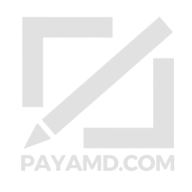
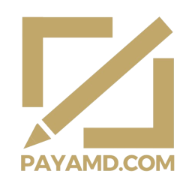
feat(styles): add color

diff --git a/src/lib/components/Sections/Title/index.tsx b/src/lib/components/Sections/Title/index.tsx
@@ -1,32 +1,41 @@
-import { motion, useWillChange } from "framer-motion";
+import { motion, useScroll, useTransform, useWillChange } from "framer-motion";
 import ParallaxText from "../../motion/ParallaxText";
 import { portfolio } from "./data";
 import HoverLink from "../../motion/View/HoverLink";
+import Logo from "../../motion/Menu/Logo";
+import { useRef } from "react";
+import { HiOutlineArrowLongDown } from "react-icons/hi2";
 
 const Title = () => {
   const willChange = useWillChange();
+  const ref = useRef(null);
+
+  const { scrollY } = useScroll({ target: ref });
+  const width = useTransform(scrollY, [0, 200], ["100vw", "45vw"]);
 
   return (
     <motion.section
       id="home"
       layoutScroll
+      ref={ref}
       style={{
         willChange,
         overflow: "hidden",
       }}
     >
       <motion.div
-        className="third"
+        className="second"
         style={{
           willChange,
+          width,
           backgroundImage: `url(${portfolio.image2})`,
           backgroundRepeat: "no-repeat",
-          backgroundSize: "contain",
+          backgroundSize: "auto",
           backgroundPosition: "right",
           mixBlendMode: "difference",
+          transformOrigin: "right center",
           zIndex: "-1",
           height: "100vh",
-          width: "45vw",
           minWidth: "400px",
           right: "0",
           bottom: "0",
@@ -61,13 +70,42 @@ const Title = () => {
           <div
             style={{
               fontSize: "0.65em",
-              // display: "inline-grid"
             }}
           >
             <HoverLink title="01 Who I am" url="#about" />
             <HoverLink title="02 What I do" url="#services" />
           </div>
         </div>
+        <motion.div
+          style={{
+            position: "absolute",
+            bottom: "3em",
+            margin: "auto",
+            left: "50vw",
+            textAlign: "center",
+          }}
+        >
+          <HiOutlineArrowLongDown />
+        </motion.div>
+        <motion.div
+          layout
+          initial={{ opacity: 0 }}
+          animate={{ opacity: 1, zIndex: 200 }}
+          transition={{
+            duration: 2,
+            delay: 15,
+            ease: "easeIn",
+          }}
+          style={{
+            willChange,
+            position: "absolute",
+            width: "100px",
+            top: "-20px",
+            left: "0",
+          }}
+        >
+          <Logo light />
+        </motion.div>
 
         <motion.div
           layout

diff --git a/src/lib/layout/Header.tsx b/src/lib/layout/Header.tsx
@@ -31,7 +31,7 @@ const Header = () => {
       }}
       style={{
         willChange,
-        background: "#111",
+        background: "#1e2125",
         position: "fixed",
         justifyContent: "center",
         display: "flex",
@@ -54,7 +54,6 @@ const Header = () => {
           willChange,
           alignSelf: "center",
           fontSize: "5em",
-          color: "#c2a76b",
         }}
       >
         {rounded}
@@ -73,7 +72,7 @@ const Header = () => {
           height: "20px",
           width: `1%`,
           scaleX: rounded,
-          background: "#c2a76b",
+          background: "#f4f4f2",
           transformOrigin: "0%",
           position: "fixed",
           left: "0",
@@ -81,7 +80,7 @@ const Header = () => {
         }}
       />
       <motion.div
-        className="third"
+        className="second"
         initial={{ scaleY: 0 }}
         animate={{
           scaleY: 1,
@@ -92,15 +91,15 @@ const Header = () => {
         style={{
           willChange,
           height: "100vh",
-          width: "45vw",
-          transformOrigin: "0%",
+          width: "50vw",
+          transformOrigin: "top center",
           position: "fixed",
           right: "0",
           top: "0",
         }}
       />
       <motion.div
-        className="third"
+        className="second"
         initial={{ scaleX: 0 }}
         animate={{
           scaleX: 1,
@@ -111,11 +110,11 @@ const Header = () => {
         style={{
           willChange,
           height: "100vh",
-          width: "55vw",
-          transformOrigin: "0%",
+          width: "50vw",
+          transformOrigin: "bottom center",
           position: "fixed",
           left: "0",
-          top: "0",
+          bottom: "0",
         }}
       />
       <motion.div
@@ -129,6 +128,7 @@ const Header = () => {
           ease: "circOut",
         }}
         style={{
+          willChange,
           position: "fixed",
           alignSelf: "center",
           textAlign: "center",

diff --git a/src/lib/components/Sections/Resume/index.tsx b/src/lib/components/Sections/Resume/index.tsx
@@ -13,6 +13,7 @@ import Skills from "./Skills";
 import Intro from "./Intro";
 import HoverLink from "../../motion/View/HoverLink";
 import { ArrowForwardIcon } from "@chakra-ui/icons";
+import Logo from "../../motion/Menu/Logo";
 
 const Resume = () => {
   const resume = useRef(null);
@@ -35,6 +36,16 @@ const Resume = () => {
       <AnimatePresence initial={false}>
         {isInView && (
           <>
+            <div
+              style={{
+                position: "absolute",
+                width: "100px",
+                top: "-20px",
+                left: "0",
+              }}
+            >
+              <Logo light />
+            </div>
             <Intro />
             <Experience />
             <Education />
@@ -55,7 +66,7 @@ const Resume = () => {
                 textAlign: "center",
               }}
             >
-              <h3>Projects</h3>
+              <h2>Projects</h2>
               <HoverLink title="check out my portfolio" url="/projects" />
               <ArrowForwardIcon />
             </motion.div>

diff --git a/src/lib/components/Sections/Portfolio/index.tsx b/src/lib/components/Sections/Portfolio/index.tsx
@@ -2,6 +2,7 @@ import { useRef } from "react";
 import { motion, useScroll, useTransform } from "framer-motion";
 import Card from "../../motion/Card";
 import data from "./data";
+import Logo from "../../motion/Menu/Logo";
 
 export default function Horizental() {
   const ref = useRef(null);
@@ -52,12 +53,22 @@ export default function Horizental() {
           })}
         </motion.ul>
       </div>
+      <div
+        style={{
+          position: "fixed",
+          width: "100px",
+          top: "-20px",
+          left: "0",
+        }}
+      >
+        <Logo light />
+      </div>
       <svg
         style={{
           position: "fixed",
           transform: "rotate(-90deg)",
-          top: "1em",
-          right: "1em",
+          top: "6em",
+          right: "0",
         }}
         width="100"
         height="100"

diff --git a/src/lib/components/motion/View/HoverLink.tsx b/src/lib/components/motion/View/HoverLink.tsx
@@ -1,18 +1,24 @@
 import Link from "next/link";
 import { FiArrowUpRight } from "react-icons/fi";
 
-export default function HoverLink({ title, url, size, out }: any) {
+export default function HoverLink({ title, url, size, out, low }: any) {
   return (
     <Link
       href={url}
       className="underlined underlinedThin"
       style={{
         fontSize: size,
-        textTransform: "uppercase",
       }}
       target={out ? "_blank" : ""}
     >
-      {title} {out ? <FiArrowUpRight style={{ display: "inline" }} /> : ""}
+      <>
+        {!low ? (
+          <span style={{ textTransform: "uppercase" }}>{title}</span>
+        ) : (
+          <span>{title}</span>
+        )}
+        {out ? <FiArrowUpRight style={{ display: "inline" }} /> : ""}
+      </>
     </Link>
   );
 }

diff --git a/src/lib/components/Sections/About/index.tsx b/src/lib/components/Sections/About/index.tsx
@@ -27,13 +27,18 @@ export default function About() {
           width: "100%",
         }}
       >
-        <div>
+        <motion.div
+          layout
+          style={{
+            willChange,
+          }}
+        >
           <h1>
             Who <br /> I am
           </h1>
           <HoverLink title="professional services" url="#services" />
           <ArrowDownIcon />
-        </div>
+        </motion.div>
         <AnimatePresence initial={false}>
           {isInView && (
             <motion.div

diff --git a/src/lib/components/Sections/Resume/data.ts b/src/lib/components/Sections/Resume/data.ts
@@ -11,6 +11,8 @@ export const intro = {
     "https://storage.googleapis.com/www.payamd.com/Portfolio/anim/me-home-removebg-sketch.png",
   image2:
     "https://storage.googleapis.com/www.payamd.com/Portfolio/anim/me-home-bw-removebg-EDIT.jpeg",
+  image3:
+    "https://storage.googleapis.com/www.payamd.com/Portfolio/anim/me-camera-removebg-preview.png",
 };
 
 export const experience = [

diff --git a/src/lib/components/Sections/Resume/Certificates.tsx b/src/lib/components/Sections/Resume/Certificates.tsx
@@ -60,7 +60,7 @@ const Certificates = () => {
                   <Text fontSize="xs">{item.date}</Text>
                 </Box>
               </Flex>
-              <Text px={4} fontSize="xs">
+              <Text px={6} fontSize="xs">
                 {item.description}
               </Text>
             </>

diff --git a/src/lib/components/motion/Menu/Logo.tsx b/src/lib/components/motion/Menu/Logo.tsx
@@ -2,12 +2,12 @@ import { logos } from "../../data/logos";
 
 export default function Logo({ light }: any) {
   return (
-    <span>
+    <a href="/">
       {light ? (
         <img src={logos[2]} alt="logo" />
       ) : (
         <img src={logos[0]} alt="logo" />
       )}
-    </span>
+    </a>
   );
 }

diff --git a/src/lib/styles/globals.css b/src/lib/styles/globals.css
@@ -182,11 +182,12 @@ nav button {
   position: inherit;
   z-index: 101;
   top: 15px;
+  right: 10px;
   height: 75px;
   width: 75px;
   border-radius: 50%;
-  backdrop-filter: contrast(0.5);
-  color: var(--gold);
+  backdrop-filter: invert(1);
+  color: var(--secondary);
 }
 
 .underlined {

diff --git a/src/lib/components/Sections/Contact/index.tsx b/src/lib/components/Sections/Contact/index.tsx
@@ -27,6 +27,7 @@ export default function Contact() {
           title="contact@payamd.com"
           url="mailto:contact@payamd.com"
           out
+          low
         />
         <h5>
           <b>CHECK OUT</b>

diff --git a/src/lib/components/Sections/Services/index.tsx b/src/lib/components/Sections/Services/index.tsx
@@ -69,6 +69,7 @@ export default function Services() {
   const willChange = useWillChange();
   const ref = useRef(null);
   const isInView = useInView(ref);
+
   return (
     <motion.section
       ref={ref}
